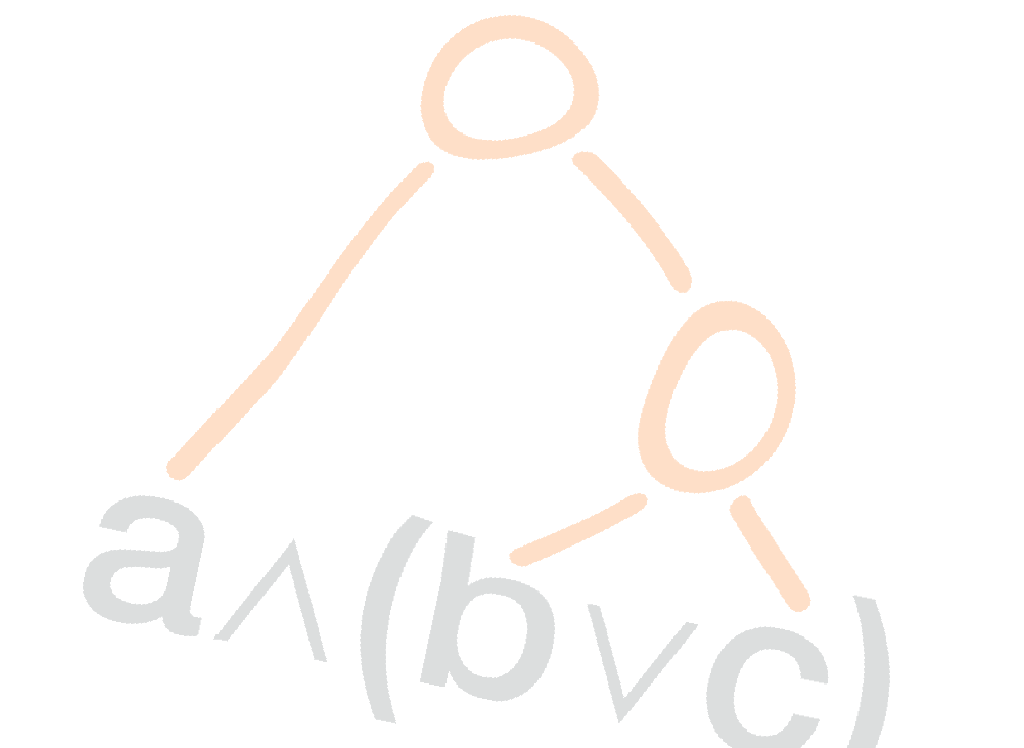
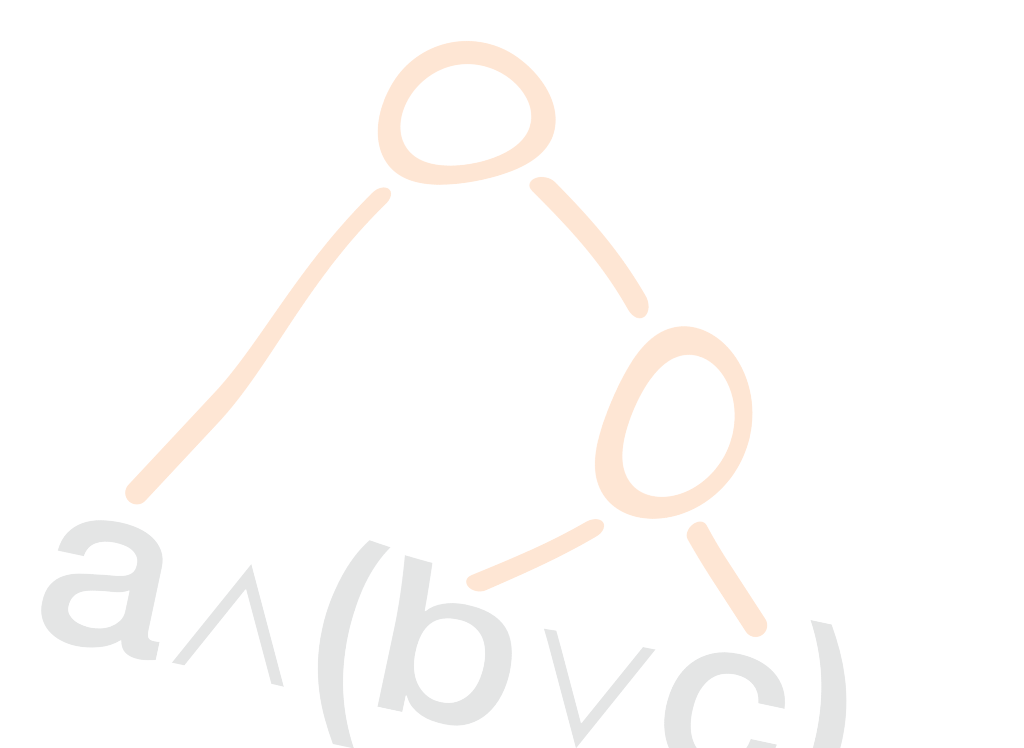
startup and background pics in hires

Changed region(s): [[0.0312, 0.0, 0.875, 1.0]]

diff --git a/Nyaya/html/welcome.css b/Nyaya/html/welcome.css
@@ -1,7 +1,7 @@
 @charset "UTF-8";
 
 body { margin-left:70px; margin-right:70px; margin-top:70px; margin-bottom:70px;
-    background-color:#F8F8F8; background-image:url(abc.png);}
+    background-color:#F8F8F8; background-image:url(syntaxtree.png);}
 
 h1,h2,h3,h4,p,ul,ol,li,div,td,th,address,blockquote,nobr,b,i {
     font-family:Helvetica,Arial,sans-serif; color:#555555;

diff --git a/Nyaya/NyTutorials/NyTuDetailViewController.m b/Nyaya/NyTutorials/NyTuDetailViewController.m
@@ -7,10 +7,11 @@
 //
 
 #import "NyTuDetailViewController.h"
+#import "NyTuXyzViewController.h"
 
 @interface NyTuDetailViewController () 
 
-@property (strong, nonatomic) UIViewController *exerciseViewController;
+@property (strong, nonatomic) NyTuXyzViewController *exerciseViewController;
 @end
 
 @implementation NyTuDetailViewController
@@ -43,6 +44,9 @@
         if ([[NSBundle mainBundle] pathForResource:name ofType:@"nib"] != nil) {
             
             self.exerciseViewController = [[NSClassFromString(name) alloc] initWithNibName:name bundle:nil];
+            self.exerciseViewController.delegate = self;
+            self.exerciseViewController.modalPresentationStyle = UIModalPresentationFullScreen;
+            self.exerciseViewController.modalTransitionStyle = UIModalTransitionStyleCoverVertical;
             self.exerciseButton.hidden = NO;
         }
         else {
@@ -54,20 +58,30 @@
     }
 }
 
+- (void)viewDidLoad {
+    [super viewDidLoad];
+    self.exerciseButton.hidden = YES;
+}
+
 - (void)viewDidUnload {
     self.webView = nil;
     self.exerciseButton = nil;
     self.exerciseViewController = nil;
     [super viewDidUnload];
 }
+
 - (IBAction)exercise:(id)sender {
     if (self.exerciseViewController) {
-        // CGRect f = self.exerciseViewController.view.frame;
-        self.exerciseViewController.modalPresentationStyle = UIModalPresentationFormSheet;
-        self.exerciseViewController.modalTransitionStyle = UIModalTransitionStyleCoverVertical;
-        // [self.exerciseViewController.delegate = self;
+        
+        
         [self presentModalViewController:self.exerciseViewController animated:YES];
-        // self.exerciseViewController.view.frame = f;
+        // self.exerciseViewController.view.bounds = CGRectMake(40,40,708,964);
+        
+        
     }
+}
+
+- (void)exerciseDone {
+    [self.exerciseViewController dismissModalViewControllerAnimated:YES];
 }
 @end

diff --git a/Nyaya/NyTutorials/NyTuXyzViewController.m b/Nyaya/NyTutorials/NyTuXyzViewController.m
@@ -7,6 +7,7 @@
 //
 
 #import "NyTuXyzViewController.h"
+#import "NyTuDetailViewController.h"
 
 @interface NyTuXyzViewController ()
 
@@ -38,6 +39,10 @@
 - (BOOL)shouldAutorotateToInterfaceOrientation:(UIInterfaceOrientation)interfaceOrientation
 {
 	return YES;
+}
+
+- (void)done:(id)sender {
+    [self.delegate exerciseDone];
 }
 
 @end

diff --git a/Nyaya/NyTutorials/NyTuXyzViewController.h b/Nyaya/NyTutorials/NyTuXyzViewController.h
@@ -8,6 +8,12 @@
 
 #import <UIKit/UIKit.h>
 
+@class NyTuDetailViewController;
+
 @interface NyTuXyzViewController : UIViewController
+
+@property (nonatomic, weak) NyTuDetailViewController *delegate;
+
+- (IBAction)done:(id)sender;
 
 @end

diff --git a/Nyaya/NyTutorials/NyTuDetailViewController.h b/Nyaya/NyTutorials/NyTuDetailViewController.h
@@ -14,5 +14,6 @@
 @property (strong, nonatomic) IBOutlet UIButton *exerciseButton;
 
 - (IBAction)exercise:(id)sender;
+- (void)exerciseDone;
 
 @end
